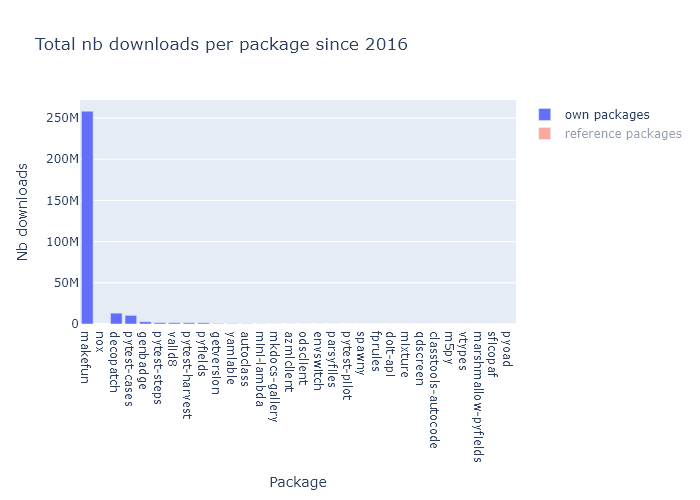
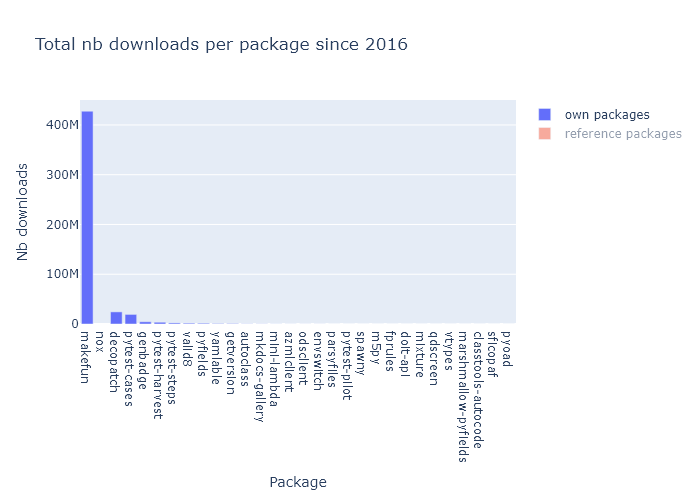
Updated stats for python packages

diff --git a/stats/plot_available_stats.py b/stats/plot_available_stats.py
@@ -55,6 +55,7 @@ assert len(ALL_PROJECTS_INCL_OBSOLETES) == 29
 def plot_stats():
     all_dfs_lst = []
     for f in STATS_DATA_DIR.glob("all*.csv"):
+        print(f"Reading {f}")
         df = pd.read_csv(f, index_col=[0])
         all_dfs_lst.append(df)
 
@@ -64,6 +65,7 @@ def plot_stats():
     # remove last month since it is incomplete
     not_last_month = all_dfs['date'] < all_dfs['date'].max()
     all_dfs = all_dfs.loc[not_last_month]
+    last_complete_month = all_dfs['date'].max().month
 
     del all_dfs['yyyymm']
     # def map_obsoletes(val):
@@ -112,10 +114,13 @@ def plot_stats():
     # Plot 1 - totals per package since 2016
     plot1_totals_per_pkg_since_2016(downloads_totals, pkg_names=pkg_names)
 
+    # Remove last (incomplete) year if needed
+    if last_complete_month < 12:
+        print(f"Removing last year of data {int(downloads_yearly_df.index[-1])} for yearly totals as it is incomplete")
+        downloads_yearly_df = downloads_yearly_df.iloc[:-1]
+
     # Plot 2a - totals per year (all pkgs together)
     downloads_yearly_total = downloads_yearly_df[all_projects_incl_obsoletes_sorted].sum(axis=1)
-    # Remove last (incomplete) year
-    downloads_yearly_total = downloads_yearly_total.iloc[:-1]
     plot2_yearly_totals(downloads_yearly_total)
 
     # html_str = fig.to_html(DOCS_STATIC_DIR / "YearlyTotals.html")  # for us to check the plotly.js version
@@ -257,7 +262,7 @@ def plot2b_yearly_per_pkg(downloads_yearly_df, pkg_names: PkgNames, nb_proj_high
 
     fig = go.Figure()
     for p in highlighted_pkgs:
-        _proj_yearly_series = downloads_yearly_df[p].iloc[:-1]
+        _proj_yearly_series = downloads_yearly_df[p]
         fig.add_trace(go.Bar(
             name=p,
             # Convert to string to avoid the issue with xticks not displaying in the mkdocs final html
@@ -270,7 +275,7 @@ def plot2b_yearly_per_pkg(downloads_yearly_df, pkg_names: PkgNames, nb_proj_high
             ])
         ))
 
-    rest_data = downloads_yearly_df[rest_names].sum(axis=1).iloc[:-1]
+    rest_data = downloads_yearly_df[rest_names].sum(axis=1)
     fig.add_trace(go.Bar(
         name=f"Other {nb_rest_pkgs} pkgs",
         x=rest_data.index,

diff --git a/stats/get_pypi_stats.py b/stats/get_pypi_stats.py
@@ -12,7 +12,7 @@ from plot_available_stats import ALL_PROJECTS_INCL_OBSOLETES
 
 
 STATS_DATA_DIR = Path(__file__).parent / "data"
-ALL_YEARS = tuple(range(2025, 2015, -1))
+ALL_YEARS = tuple(range(2026, 2015, -1))
 
 # Construct a BigQuery client object.
 client = bigquery.Client()
